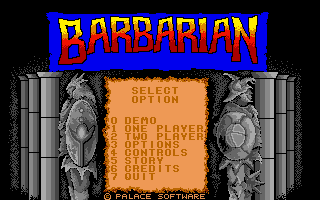
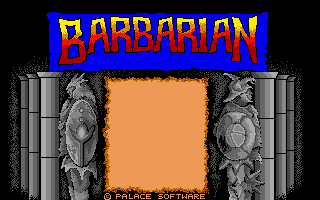
Ref: Remove unused menu images

Changed region(s): [[0.3438, 0.57, 0.6562, 0.9], [0.4062, 0.42, 0.5625, 0.51]]

diff --git a/barbariantuw/scenes.py b/barbariantuw/scenes.py
@@ -55,11 +55,11 @@ class Logo(EmptyScene):
         self.titre = True
 
         if Game.country == 'USA':
-            img = get_img('menu/menu_.png').copy()
+            img = get_img('menu/menu.png').copy()
             logo_ds = get_img('menu/logoDS.png')
             img.blit(logo_ds, (46 * Game.scx, 10 * Game.scy))
         else:
-            img = get_img('menu/menu_.png')
+            img = get_img('menu/menu.png')
 
         heroes = StaticSprite((0, 86 * Game.scy), 'menu/heroes.png', self)
         heroes.rect.x = Game.screen[0] / 2 - heroes.rect.w / 2
@@ -242,7 +242,7 @@ class Menu(_MenuBackScene):
                  on_demo, on_solo, on_duel,
                  on_options, on_controls,
                  on_history, on_credits, on_quit):
-        super(Menu, self).__init__(opts, 'menu/menu_.png')
+        super(Menu, self).__init__(opts, 'menu/menu.png')
         self.on_demo = on_demo
         self.on_solo = on_solo
         self.on_duel = on_duel
@@ -877,7 +877,7 @@ class Battle(EmptyScene):
 
 class Version(_MenuBackScene):
     def __init__(self, opts, *, on_display, on_back):
-        super(Version, self).__init__(opts, 'menu/menu_.png')
+        super(Version, self).__init__(opts, 'menu/menu.png')
         self.on_display = on_display
         self.on_back = on_back
         sz = int(7 * Game.scy)
@@ -904,7 +904,7 @@ class Version(_MenuBackScene):
 
 class Display(_MenuBackScene):
     def __init__(self, opts, *, on_fullscreen, on_window, on_back):
-        super(Display, self).__init__(opts, 'menu/menu_.png')
+        super(Display, self).__init__(opts, 'menu/menu.png')
         self.on_fullscreen = on_fullscreen
         self.on_window = on_window
         self.on_back = on_back
@@ -930,7 +930,7 @@ class Display(_MenuBackScene):
 
 class SelectStage(_MenuBackScene):
     def __init__(self, opts, *, on_start, on_back):
-        super(SelectStage, self).__init__(opts, 'menu/menu_.png')
+        super(SelectStage, self).__init__(opts, 'menu/menu.png')
         self.on_start = on_start
         self.on_back = on_back
         sz = int(7 * Game.scy)
